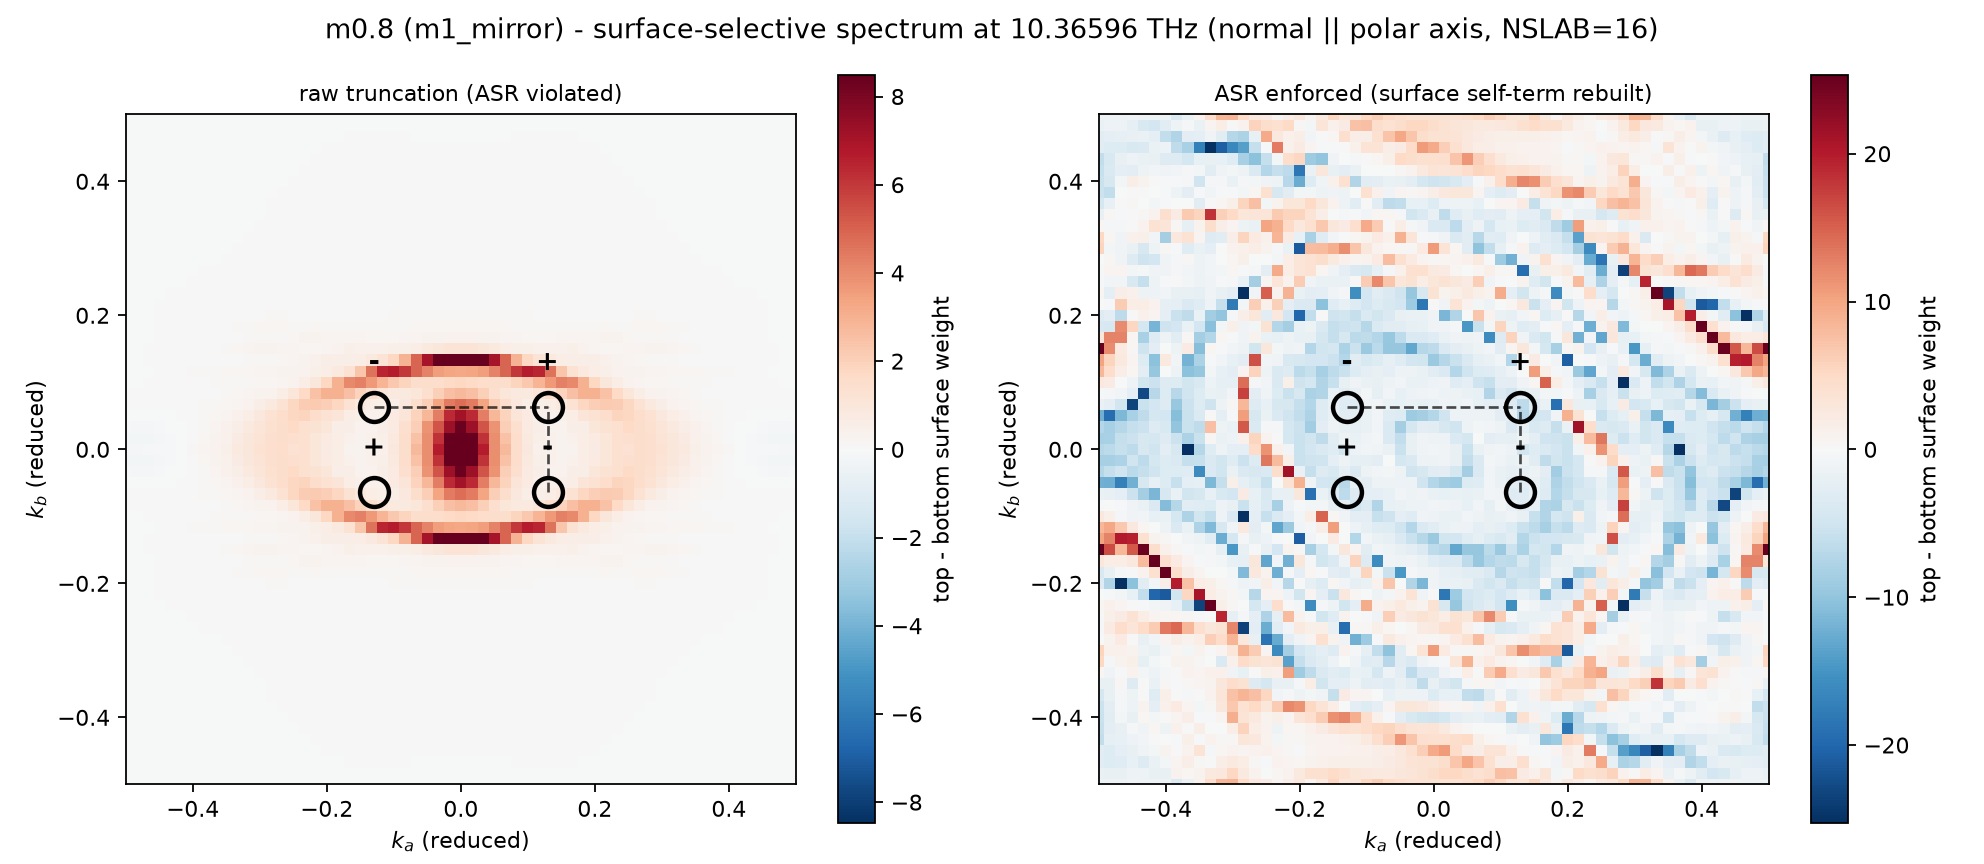
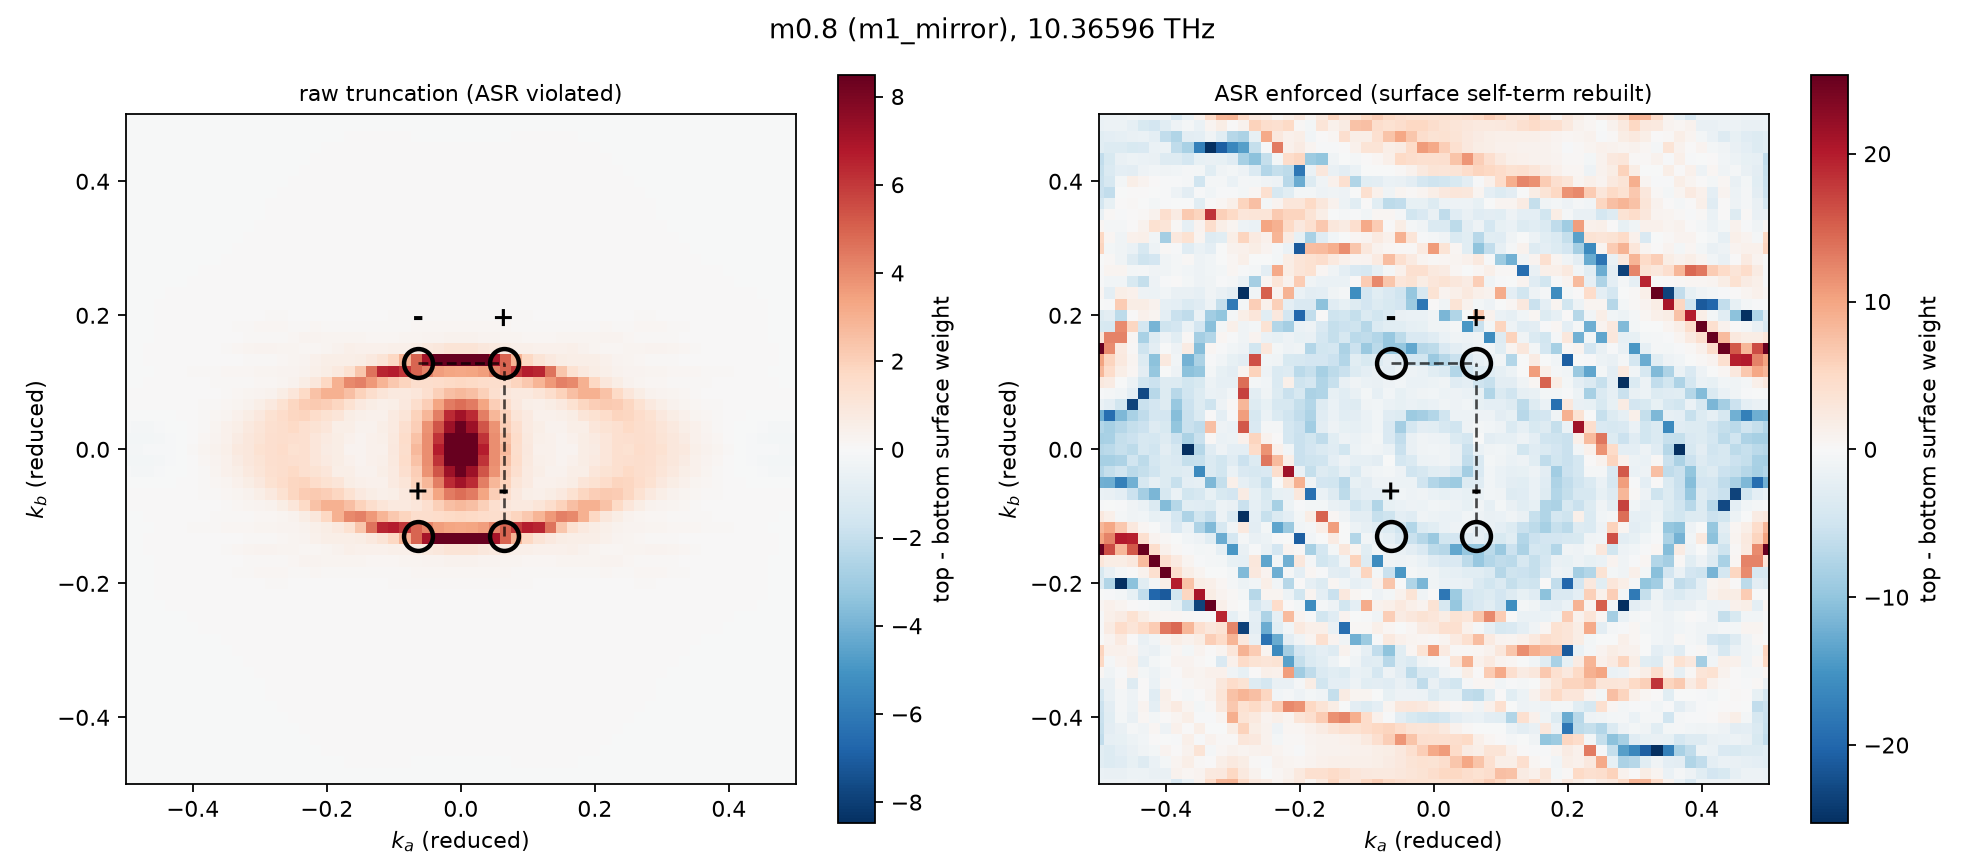
The m0.8 crescent was a transposed gap mask, not a surface feature
Third pass on section 7, and the first two were both wrong. Root cause is a
mismatch between the arc array and the gap mask, not physics.

arc_map.py stores results as [inplane[0], inplane[1]]. For m0.8 the slab
normal is the polar axis (native 1), so the arc array is indexed
[native0, native2] -- but the saved gap mask was [native2, native0].
The node markers in figs/arc_m08*.png were swapped for the same reason.
parent_pristine's mask was correct; only m0.8 was affected.

Verified both conventions independently (scripts/figs/arc_axis_check.py):
  arc array: recomputing raw_d at sample k-points matches to 0.0000 only for
    NORMAL=1 with [i,j] as stored (other combinations differ by 9.6);
    parent matches only for NORMAL=2, [i,j] (others 7.6).
  mask: recomputed with the correct normal, agreement is
    parent 0.9930 as-is vs 0.3459 transposed;
    m0.8   0.4136 as-is vs 0.9887 transposed.
  Neither saved mask is self-transpose-symmetric (0.342, 0.416), so the test
  discriminates.

With the corrected mask (work/m1_mirror/gapmask.npy) the m0.8 in-gap weight
drops 10x -- mean |raw_d| 0.203 -> 0.021, max 4.247 -> 1.191 -- landing on
parent's 0.025. The crescent is gone.

arc_ridge_check.py now scans both directions. Every row of both structures
has its in-gap maximum sitting exactly on the mask edge, i.e. it is a cut
through bulk-region structure, not a detached surface ridge. The "band
running along the boundary" of sections 4 and 6 is the boundary itself.
[…]

diff --git a/scripts/figs/arc_axis_check.py b/scripts/figs/arc_axis_check.py
@@ -1,0 +1,111 @@
+#!/usr/bin/env python3
+"""아크 데이터와 간극 마스크의 축 규약이 서로 맞는지 검사한다.
+
+이걸 안 해서 SUMMARY 7절이 두 번 틀렸다. m0.8 의 마스크가 아크 배열에 대해 전치돼
+있었고, 그 결과 있지도 않은 "초승달"이 그림에 나타났다.
+
+두 가지를 독립적으로 확인한다.
+  1) 아크 배열의 법선축과 인덱스 순서 — 몇 개 격자점에서 raw_d 를 재계산해 대조.
+     맞는 조합에서만 차이가 정확히 0 이 된다.
+  2) 마스크의 인덱스 순서 — 같은 법선으로 마스크를 재계산해 그대로/전치 일치율 비교.
+     마스크가 대칭이면 이 검사가 무의미하므로 저장본의 자기전치 일치율도 함께 낸다.
+
+사용: python3 arc_axis_check.py SRC HR ARC.npz [GAPMASK.npy] W0 [NSLAB] [ETA]
+"""
+import sys
+import numpy as np
+
+sys.path.insert(0, __file__.rsplit('/', 1)[0])
+from slab_asr import read_hr
+from phonopy.interface.calculator import read_crystal_structure
+
+SRC, HRF, ARC = sys.argv[1], sys.argv[2], sys.argv[3]
+MASK = sys.argv[4] if not sys.argv[4].replace('.', '').isdigit() else None
+rest = sys.argv[5:] if MASK else sys.argv[4:]
+W0 = float(rest[0])
+NSLAB = int(rest[1]) if len(rest) > 1 else 16
+ETA = float(rest[2]) if len(rest) > 2 else 0.02
+
+u, _ = read_crystal_structure(filename=SRC + '/POSCAR', interface_mode='vasp')
+R, H, deg = read_hr(HRF)
+nw = H.shape[1]
+Hn = H / deg[:, None, None]
+arc = np.load(ARC)
+ks = arc['ks']
+NG = len(ks)
+
+
+def group(normal):
+    ip = [i for i in range(3) if i != normal]
+    g = {}
+    for ir in range(len(R)):
+        d = int(R[ir, normal])
+        g.setdefault(d, [[], [], []])
+        g[d][0].append(R[ir, ip[0]]); g[d][1].append(R[ir, ip[1]]); g[d][2].append(Hn[ir])
+    return {d: (np.array(v[0], float), np.array(v[1], float), np.array(v[2]))
+            for d, v in g.items()}
+
+
+def raw_d_at(G, x, y):
+    D = np.zeros((NSLAB * nw, NSLAB * nw), complex)
+    for d, (r1, r2, hh) in G.items():
+        B = np.tensordot(np.exp(2j * np.pi * (x * r1 + y * r2)), hh, axes=(0, 0))
+        for n in range(NSLAB):
+            m = n + d
+            if 0 <= m < NSLAB:
+                D[n * nw:(n + 1) * nw, m * nw:(m + 1) * nw] += B
+    D = (D + D.conj().T) / 2
+    w, v = np.linalg.eigh(D)
+    f = np.sign(w) * np.sqrt(np.abs(w))
+    top = (np.abs(v[:nw, :]) ** 2).sum(0)
+    bot = (np.abs(v[-nw:, :]) ** 2).sum(0)
+    L = ETA / ((f - W0) ** 2 + ETA ** 2)
+    return ((top - bot) * L).sum()
+
+
+def gapmask(G, nkc=41):
+    gap = np.zeros((NG, NG), bool)
+    ts = np.linspace(0, 1, nkc, endpoint=False)
+    for i, ka in enumerate(ks):
+        for j, kb in enumerate(ks):
+            F = []
+            for t in ts:
+                D = np.zeros((nw, nw), complex)
+                for d, (r1, r2, hh) in G.items():
+                    D += np.tensordot(np.exp(2j * np.pi * (ka * r1 + kb * r2 + t * d)),
+                                      hh, axes=(0, 0))
+                D = (D + D.conj().T) / 2
+                w = np.linalg.eigvalsh(D)
+                F.append(np.sort(np.sign(w) * np.sqrt(np.abs(w))))
+            F = np.array(F)
+            gap[i, j] = not np.any((F.min(0) <= W0) & (F.max(0) >= W0))
+    return gap
+
+
+tests = [(NG // 3, NG // 2), (NG // 4, 2 * NG // 3), (NG // 2, NG // 2),
+         (2 * NG // 3, NG // 4), (3 * NG // 5, 5 * NG // 11)]
+print('1) 아크 배열의 법선축·인덱스 순서   (차이 0 인 조합이 정답)')
+best = None
+for normal in (0, 1, 2):
+    G = group(normal)
+    r = [raw_d_at(G, ks[i], ks[j]) for i, j in tests]
+    e_ij = max(abs(r[t] - arc['raw_d'][i, j]) for t, (i, j) in enumerate(tests))
+    e_ji = max(abs(r[t] - arc['raw_d'][j, i]) for t, (i, j) in enumerate(tests))
+    print('   NORMAL=%d   [i,j] 차이 %9.4f    [j,i] 차이 %9.4f' % (normal, e_ij, e_ji))
+    if best is None or min(e_ij, e_ji) < best[1]:
+        best = (normal, min(e_ij, e_ji), e_ij <= e_ji)
+print('   -> NORMAL=%d, 인덱스 %s' % (best[0], '[i,j] 그대로' if best[2] else '[j,i] 전치'))
+
+if MASK:
+    ref = np.load(MASK)
+    g = gapmask(group(best[0]))
+    print()
+    print('2) 마스크의 인덱스 순서')
+    print('   그대로 일치 %.4f   전치하면 일치 %.4f   (저장본 자기전치 일치 %.4f)'
+          % ((g == ref).mean(), (g.T == ref).mean(), (ref == ref.T).mean()))
+    if (ref == ref.T).mean() > 0.98:
+        print('   -> 마스크가 대칭이라 판정 불가')
+    elif (g.T == ref).mean() > (g == ref).mean():
+        print('   -> 마스크가 **전치돼 있다**. 그대로 쓰면 안 된다.')
+    else:
+        print('   -> 정상')

diff --git a/scripts/figs/arc_ridge_check.py b/scripts/figs/arc_ridge_check.py
@@ -17,7 +17,7 @@ import sys
 import numpy as np
 
 npz, maskf = sys.argv[1], sys.argv[2]
-A, B = float(sys.argv[3]), float(sys.argv[4])
+A, B = float(sys.argv[3]), float(sys.argv[4])   # 노드 사영 (|k1|, |k2|), 배열 인덱스 순서
 d = np.load(npz); ks = d['ks']
 gap = np.load(maskf)                       # True = gapped, [ka, kb]
 Z = np.abs(d['raw_d'])
@@ -26,19 +26,31 @@ dk = ks[1] - ks[0]
 ing, outg = Z[gap], Z[~gap]
 print('|raw_d|   간극 영역: max %8.3f  mean %7.3f  (n=%d)' % (ing.max(), ing.mean(), ing.size))
 print('|raw_d| 연속체 영역: max %8.3f  mean %7.3f  (n=%d)' % (outg.max(), outg.mean(), outg.size))
-print('노드 사영 (%.4f, %.4f),  격자 dk=%.4f' % (A, B, dk))
+print('노드 사영 (k1,k2)=(%.4f, %.4f),  격자 dk=%.4f' % (A, B, dk))
 print()
-print('   k_b    경계 k_a   능선 k_a    세기   경계로부터(칸)')
-for j, kb in enumerate(ks):
-    if kb < -1e-9 or kb > 2.2 * B:
-        continue
-    g = gap[:, j] & (ks > 0)
-    if not g.any():
-        print('  %+6.3f   (이 행에 간극 없음)' % kb)
-        continue
-    idx = np.where(g)[0]
-    edge = idx[0]
-    ig = idx[np.argmax(Z[idx, j])]
-    tag = '  <- 노드행' if abs(kb - B) < dk / 2 + 1e-9 else ''
-    print('  %+6.3f   %+7.3f   %+7.3f   %6.3f   %d%s'
-          % (kb, ks[edge], ks[ig], Z[ig, j], ig - edge, tag))
+
+def scan(axis):
+    """axis=0: 첫 인덱스를 훑으며 둘째 인덱스별 행. axis=1: 반대."""
+    fix, run = (B, A) if axis == 0 else (A, B)
+    fname, rname = ('k2', 'k1') if axis == 0 else ('k1', 'k2')
+    print()
+    print('  --- %s 고정, %s 방향으로 훑기 ---' % (fname, rname))
+    print('   %s     경계 %s   능선 %s    세기   경계로부터(칸)' % (fname, rname, rname))
+    for j, kf in enumerate(ks):
+        if kf < -1e-9 or kf > 2.2 * fix:
+            continue
+        g = (gap[:, j] if axis == 0 else gap[j, :]) & (ks > 0)
+        if not g.any():
+            print('  %+6.3f   (이 행에 간극 없음)' % kf)
+            continue
+        z = Z[:, j] if axis == 0 else Z[j, :]
+        idx = np.where(g)[0]
+        edge = idx[0]
+        ig = idx[np.argmax(z[idx])]
+        tag = '  <- 노드행' if abs(kf - fix) < dk / 2 + 1e-9 else ''
+        print('  %+6.3f   %+7.3f   %+7.3f   %6.3f   %d%s'
+              % (kf, ks[edge], ks[ig], z[ig], ig - edge, tag))
+
+
+scan(0)
+scan(1)

diff --git a/scripts/figs/plot_arc2.py b/scripts/figs/plot_arc2.py
@@ -1,0 +1,43 @@
+#!/usr/bin/env python3
+"""Surface-selective arc map: (top - bottom) layer weight, raw vs ASR-enforced.
+
+The plain top-layer weight is dominated by the projected bulk continuum; taking the
+difference between the two surfaces cancels bulk-like states and leaves the
+surface-localised ones.
+"""
+import sys
+import numpy as np
+import matplotlib
+matplotlib.use('Agg')
+import matplotlib.pyplot as plt
+
+npz, title, out = sys.argv[1], sys.argv[2], sys.argv[3]
+A, B = float(sys.argv[4]), float(sys.argv[5])   # node projections (+-A, +-B)
+d = np.load(npz)
+ks = d['ks']
+
+fig, axes = plt.subplots(1, 2, figsize=(12.4, 5.4))
+for ax, tag, lab in zip(axes, ['raw_d', 'asr_d'],
+                        ['raw truncation (ASR violated)',
+                         'ASR enforced (surface self-term rebuilt)']):
+    Z = d[tag].T
+    v = np.percentile(np.abs(Z), 99.5)
+    im = ax.pcolormesh(ks, ks, np.clip(Z, -v, v), cmap='RdBu_r',
+                       vmin=-v, vmax=v, shading='auto')
+    # node projections: chirality +1 at (+,+),(-,-) and -1 at (-,+),(+,-)
+    for (a, b, c) in [(A, B, '+'), (-A, -B, '+'), (-A, B, '-'), (A, -B, '-')]:
+        ax.plot(a, b, 'o', mfc='none', mec='k', mew=2.0, ms=13)
+        ax.text(a, b + 0.045, c, ha='center', va='bottom', fontsize=12, fontweight='bold')
+    # the two candidate arc paths (both shown to be bulk-covered)
+    ax.plot([-A, A], [B, B], 'k--', lw=1.2, alpha=0.7)
+    ax.plot([A, A], [-B, B], 'k--', lw=1.2, alpha=0.7)
+    ax.set_xlabel('$k_a$ (reduced)')
+    ax.set_ylabel('$k_b$ (reduced)')
+    ax.set_title(lab, fontsize=10)
+    ax.set_aspect('equal')
+    ax.set_xlim(-0.5, 0.5); ax.set_ylim(-0.5, 0.5)
+    fig.colorbar(im, ax=ax, label='top - bottom surface weight')
+fig.suptitle(title, fontsize=12)
+fig.tight_layout()
+fig.savefig(out, dpi=160)
+print('wrote', out)
